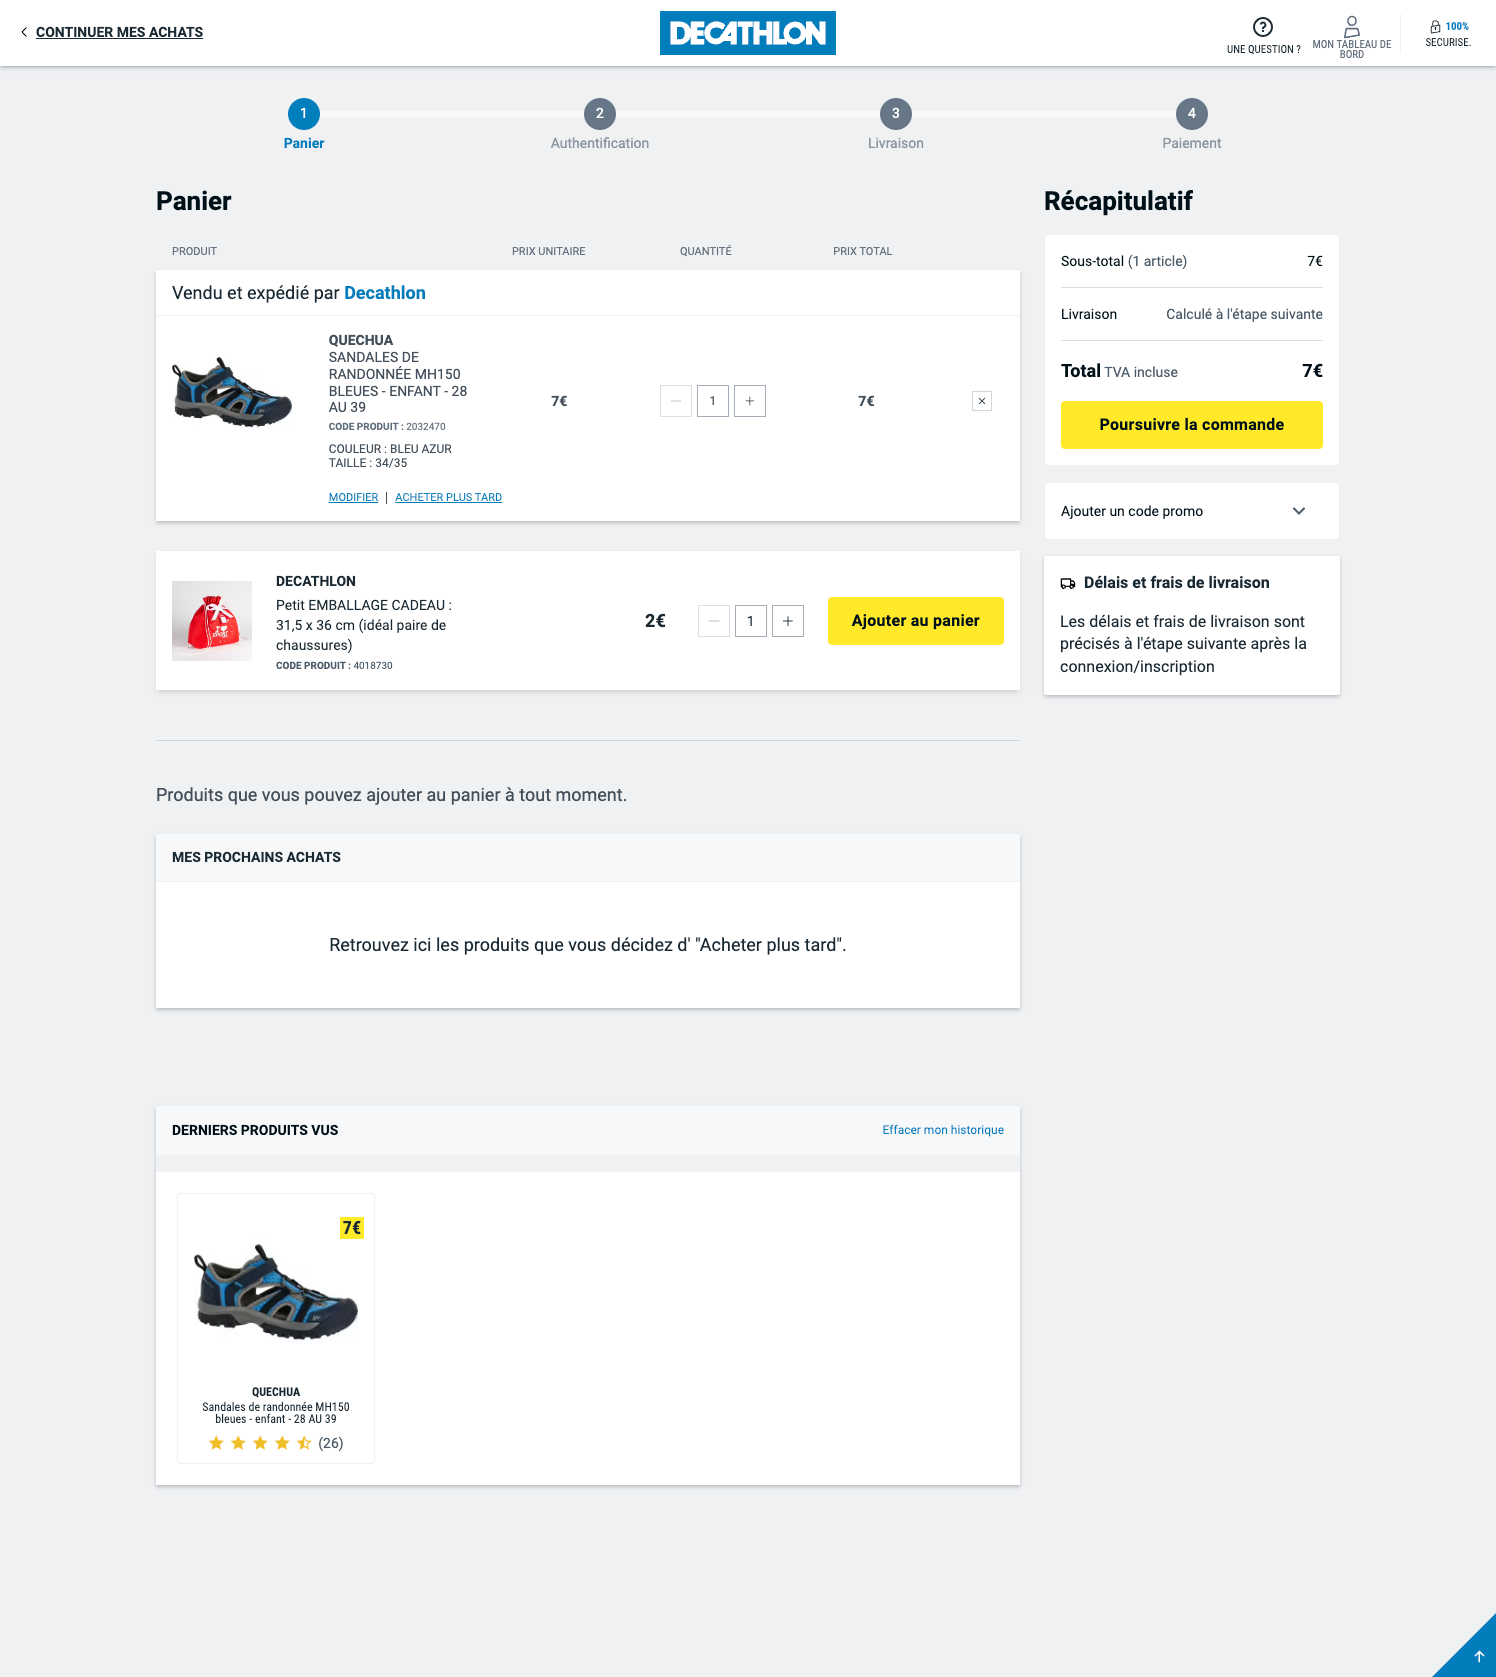
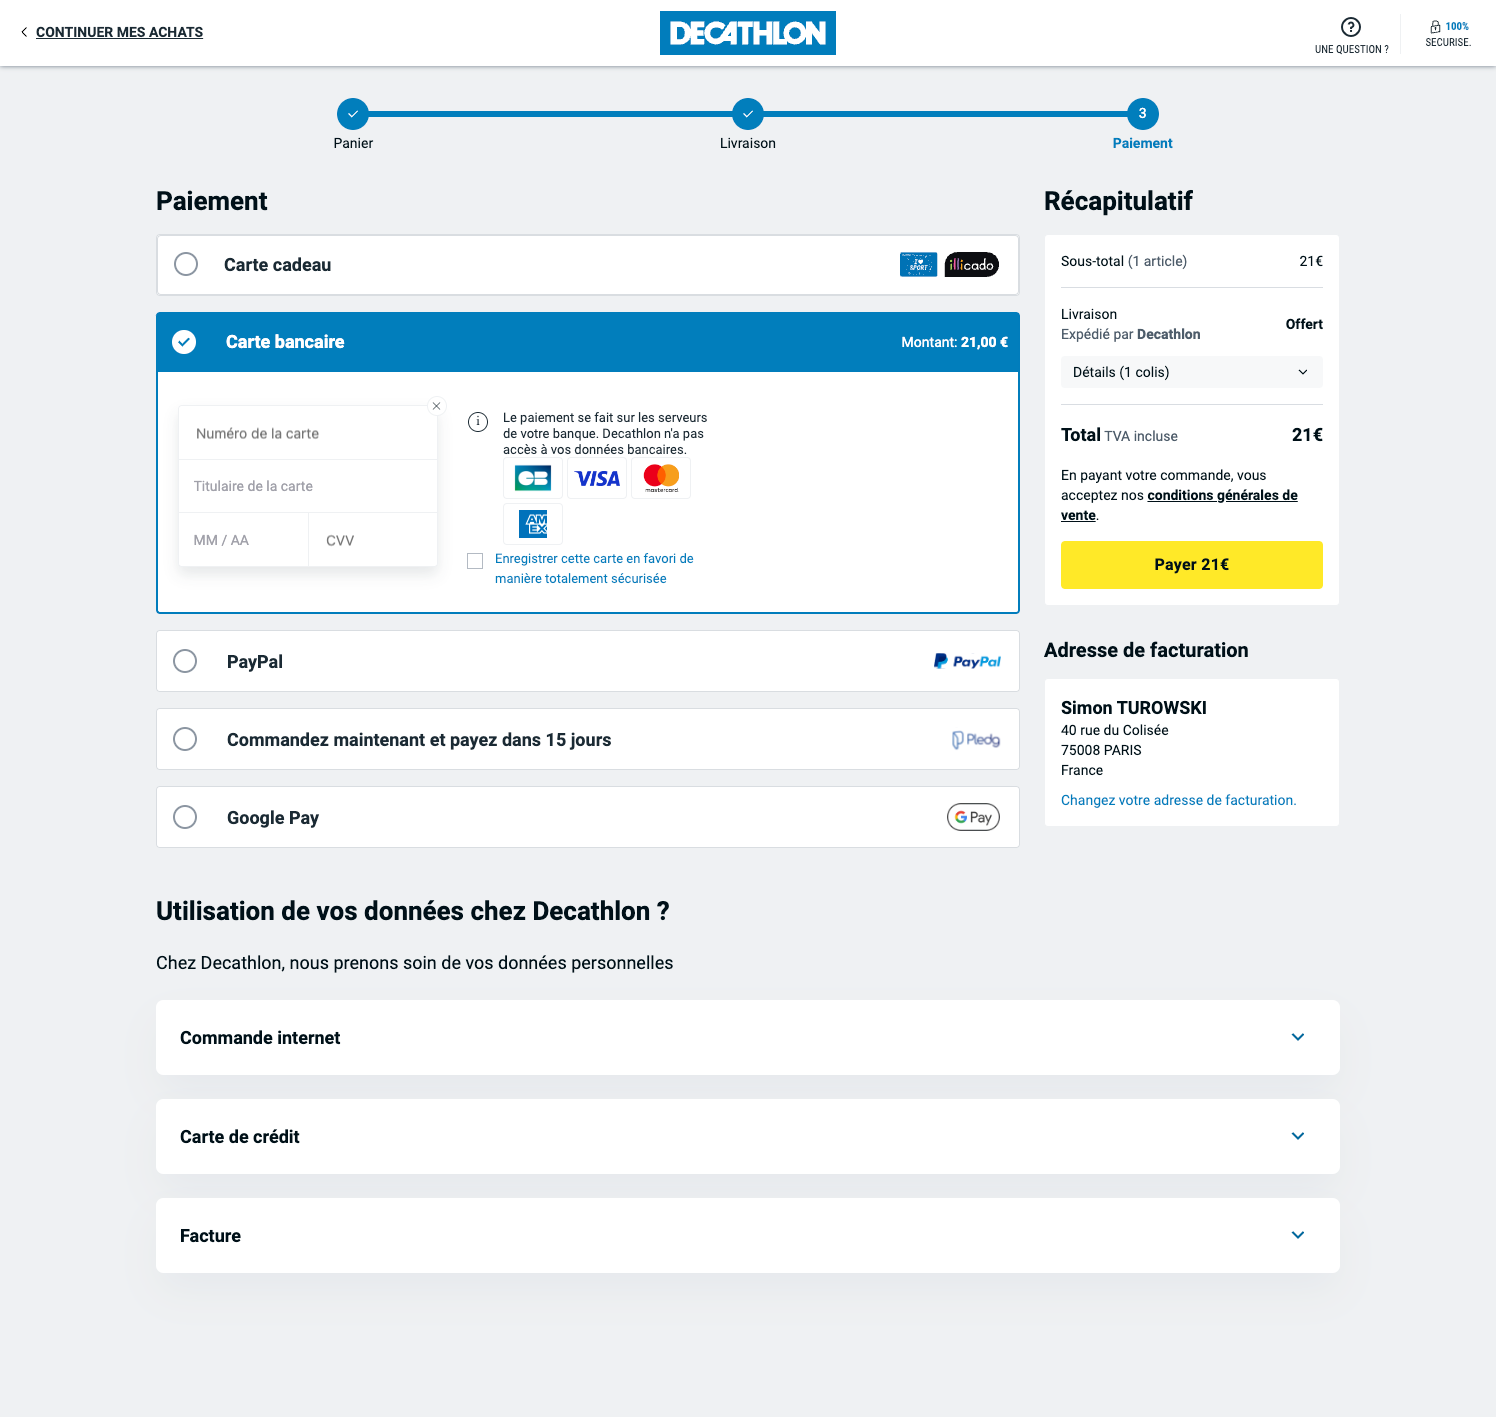
Add files via upload

diff --git a/decathlon/pages/checkout.html b/decathlon/pages/checkout.html
@@ -11,6 +11,31 @@
         padding: 0;
         font-family: sans-serif;
         font-size: 15px;
+        background: #eff1f3;
+      }
+
+      .form-container {
+        width: 230px;
+        margin: 0 auto;
+        box-shadow: 0 0 10px rgba(0, 0, 0, 0.2);
+        padding: 10px;
+      }
+
+      .form-row {
+        display: flex;
+      }
+
+      .form-col {
+        flex: 1;
+      }
+
+      .form-input {
+        height: 55px;
+        padding: 10px;
+        border: 1px solid #ccc;
+        margin-right: 5px;
+        box-sizing: border-box;
+        width: 100%;
       }
     </style>
     <!-- SunCo widget -->
@@ -179,8 +204,42 @@
     </script>
   </head>
   <body>
-    <div style="position: relative">
-      <img src="img/checkout.png" style="position: absolute; width: 100%; left: 0; top: 0; z-index: 1" />
+    <div style="background: url(img/checkout-header.png)">
+      <img src="img/checkout-header.png" style="display: block; width: 100%" />
+    </div>
+    <div style="margin: 0; background: #eff1f3">
+      <div style="display: block; width: 1240px; margin: 0 auto">
+        <img src="img/checkout-container-01.png" style="display: block; width: 100%" />
+        <div style="position: relative">
+          <img
+            src="img/checkout-container-02.png"
+            style="position: absolute; left: 0; top: 0; display: block; width: 100%; z-index: 0"
+          />
+          <div style="display: block; position: absolute; top: 80px; left: 50px; z-index: 1">
+            <div class="form-container">
+              <div class="form-row">
+                <div class="form-col">
+                  <input type="text" class="form-input" placeholder="Numéro de la carte" />
+                </div>
+              </div>
+              <div class="form-row">
+                <div class="form-col">
+                  <input type="text" class="form-input" placeholder="Titulaire de la carte" />
+                </div>
+              </div>
+              <div class="form-row">
+                <div class="form-col" style="width: 50%">
+                  <input type="text" class="form-input" placeholder="MM / AA" />
+                </div>
+                <div class="form-col" style="width: 50%">
+                  <input type="text" class="form-input" placeholder="CVV" />
+                </div>
+              </div>
+            </div>
+          </div>
+        </div>
+        <img src="img/checkout-container-03.png" style="display: block; width: 100%" />
+      </div>
     </div>
   </body>
 </html>

diff --git a/decathlon/pages/shoes.html b/decathlon/pages/shoes.html
@@ -179,9 +179,9 @@
     </script>
   </head>
   <body>
-    <div style="position: relative">
+    <div>
       <a href="checkout.html">
-        <img src="img/shoes.png" style="position: absolute; width: 100%; left: 0; top: 0; z-index: 1" />
+        <img src="img/shoes.png" style="display: block; width: 100%" />
       </a>
     </div>
   </body>

diff --git a/decathlon/pages/bike.html b/decathlon/pages/bike.html
@@ -179,9 +179,9 @@
     </script>
   </head>
   <body>
-    <div style="position: relative">
+    <div>
       <a href="checkout.html">
-        <img src="img/bike.png" style="position: absolute; width: 100%; left: 0; top: 0; z-index: 1" />
+        <img src="img/bike.png" style="display: block; width: 100%" />
       </a>
     </div>
   </body>
